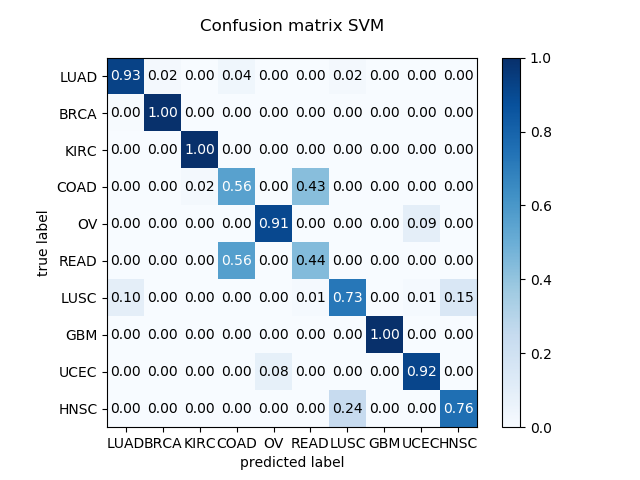
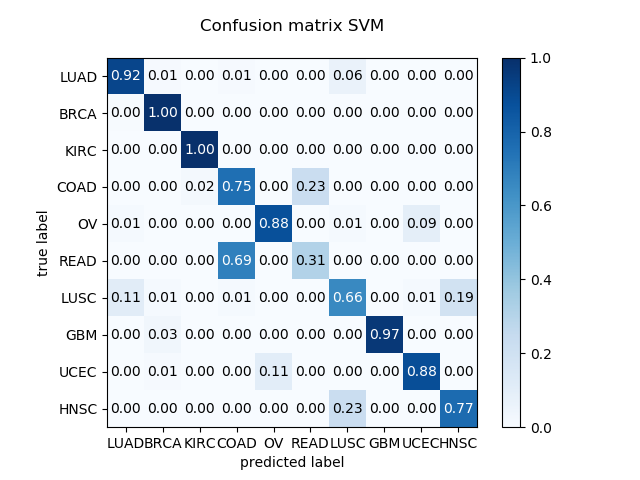
new confusione matrices

diff --git a/Classification.py b/Classification.py
@@ -81,7 +81,7 @@ def support_vector_machine(X_train, X_test, y_train, y_test):
 
 
      # training a linear SVM classifier
-    linear=SVC(kernel = "rbf", C = 10, gamma=0.0001)
+    linear=SVC(kernel = "rbf", C = 100, gamma=0.001)
     svm_model_linear = linear.fit(X_train, y_train)
     svm_predictions = svm_model_linear.predict(X_test)
 
@@ -97,7 +97,7 @@ def support_vector_machine(X_train, X_test, y_train, y_test):
 
 def k_nearest_neighbors(X_train, X_test, y_train, y_test):
     # training a KNN classifier
-    knn=KNeighborsClassifier(n_neighbors = 25, weights="distance")
+    knn=KNeighborsClassifier(n_neighbors = 7, weights="distance")
     knn.fit(X_train, y_train)
 
     # accuracy on X_test
@@ -113,14 +113,15 @@ def k_nearest_neighbors(X_train, X_test, y_train, y_test):
 
 def random_forest(X_train, X_test, y_train, y_test):
 
-    grid_param = {
-    'n_estimators': [100, 250, 500, 750, 1000],
-    'criterion': ['gini', 'entropy'],
-    'bootstrap': [True, False]
-    }
-    rf_gs=GridSearchCV(RandomForestClassifier(), param_grid=grid_param)
+    # grid_param = {
+    # 'n_estimators': [100, 250, 500, 750, 1000],
+    # 'criterion': ['gini', 'entropy'],
+    # 'bootstrap': [True, False]
+    # }
+    # rf_gs=GridSearchCV(RandomForestClassifier(), param_grid=grid_param)
+    rf_gs=RandomForestClassifier(n_estimators=750, criterion="entropy", bootstrap=False)
     rf_gs.fit(X_train,y_train)
-    print(rf_gs.best_params_)
+    #print(rf_gs.best_params_)
     #train model
     #model.fit(X_train, y_train)
     predicted_labels = rf_gs.predict(X_test)
@@ -266,10 +267,10 @@ def main():
     # plt.clf()
     # sys.exit("doei")
     # #decision tree classifier
-    print("Dummy classifier without SMOTE: ")
-    dummy_classification(X_train, X_test, y_train,y_test)
-    print("Dummy classifier with SMOTE: ")
-    dummy_classification(X_train_smote, X_test, y_train_smote, y_test)
+    # print("Dummy classifier without SMOTE: ")
+    # dummy_classification(X_train, X_test, y_train,y_test)
+    # print("Dummy classifier with SMOTE: ")
+    # dummy_classification(X_train_smote, X_test, y_train_smote, y_test)
     # cm_dt, acc_dt,tree=decision_tree(X_train, X_test, y_train, y_test)
     # plot_accuracy("decision tree", cm_dt, acc_dt)
     #SVM
@@ -281,12 +282,12 @@ def main():
     #print("DONE without SMOTE")
     #svm_dist=nested_CV(X_train_smote,y_train_smote, SVC(), tuned_parameters)
     #print("DONE with SMOTE")
-    print("without SMOTE: ")
-    cm_svm, accuracy_svm, svm_model =support_vector_machine(X_train, X_test, y_train, y_test)
-    plot_accuracy("SVM", cm_svm, accuracy_svm)
-    print("with SMOTE: ")
-    cm_svm, accuracy_svm, svm_model =support_vector_machine(X_train_smote, X_test, y_train_smote, y_test)
-    plot_accuracy("SVM", cm_svm, accuracy_svm)
+    # print("without SMOTE: ")
+    # cm_svm, accuracy_svm, svm_model =support_vector_machine(X_train, X_test, y_train, y_test)
+    # plot_accuracy("SVM", cm_svm, accuracy_svm)
+    # print("with SMOTE: ")
+    # cm_svm, accuracy_svm, svm_model =support_vector_machine(X_train_smote, X_test, y_train_smote, y_test)
+    # plot_accuracy("SVM", cm_svm, accuracy_svm)
     #KNN
 
     grid_param = {
@@ -298,9 +299,12 @@ def main():
     #knn_dist=nested_CV(X_train_smote, y_train_smote, KNeighborsClassifier(),grid_param)
     #print("DONE with SMOTE")
     #sys.exit("doei")
-
-    #cm_knn, accuracy_knn, knn=k_nearest_neighbors(X_train, X_test, y_train, y_test)
-    #plot_accuracy("K-NN", cm_knn, accuracy_knn)
+    # print("without SMOTE: ")
+    # cm_knn, accuracy_knn, knn=k_nearest_neighbors(X_train, X_test, y_train, y_test)
+    # plot_accuracy("K-NN", cm_knn, accuracy_knn)
+    # print("with SMOTE: ")
+    # cm_knn, accuracy_knn, knn=k_nearest_neighbors(X_train_smote, X_test, y_train_smote, y_test)
+    # plot_accuracy("K-NN", cm_knn, accuracy_knn)
 
     #RF - random forest
     grid_param = {
@@ -312,10 +316,12 @@ def main():
     #print("after without SMOTE")
     #rf_dist=nested_CV(X_train_smote, y_train_smote, RandomForestClassifier(), grid_param)
     #print("after with SMOTE")
-
-    #cm_rf,accuracy_rf, rf= random_forest(X_train, X_test, y_train, y_test)
-    #plot_accuracy("Random forest", cm_rf, accuracy_rf)
-
+    # print("without smote")
+    # cm_rf,accuracy_rf, rf= random_forest(X_train, X_test, y_train, y_test)
+    # plot_accuracy("Random forest", cm_rf, accuracy_rf)
+    print("with smote")
+    cm_rf,accuracy_rf, rf= random_forest(X_train_smote, X_test, y_train_smote, y_test)
+    plot_accuracy("Random forest", cm_rf, accuracy_rf)
     # plot_boundaries(svm_model,tree,knn, X_test, y_test)
 
     # NAIVE Bayes
